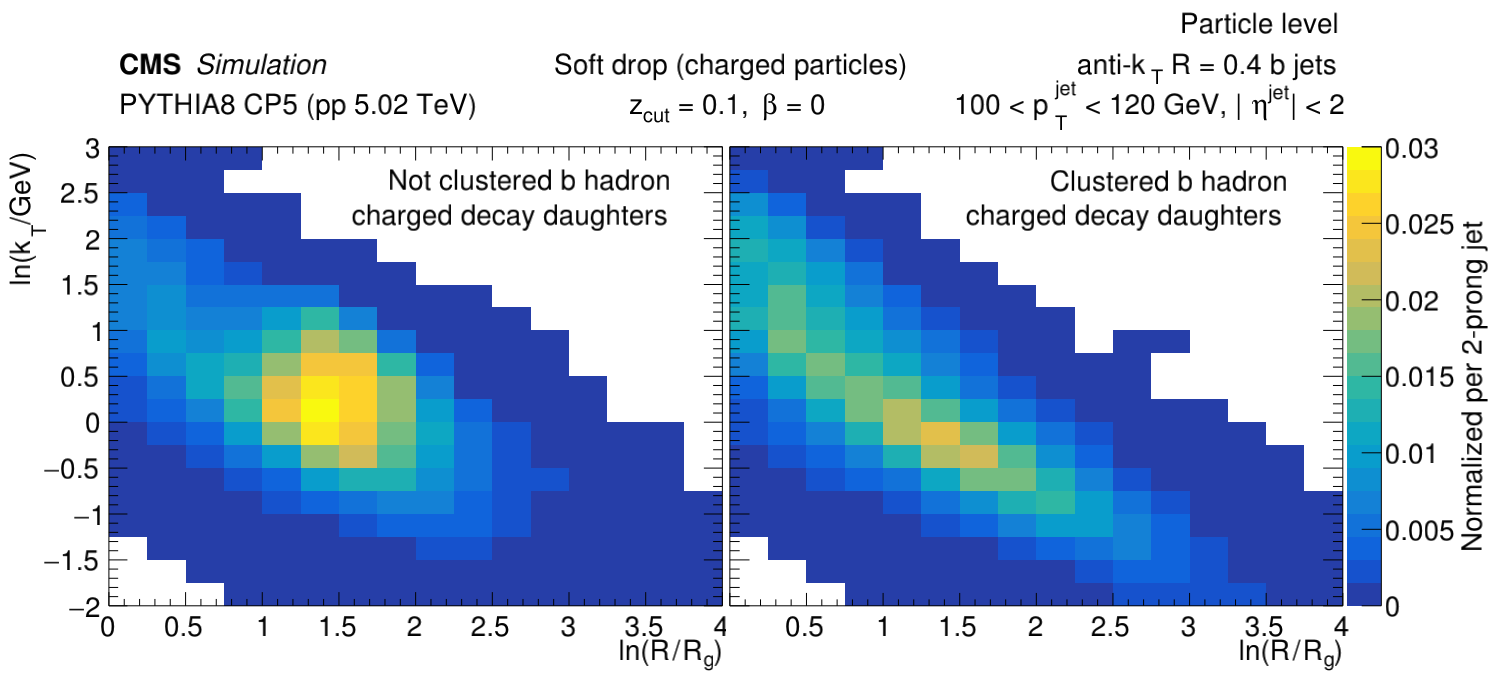
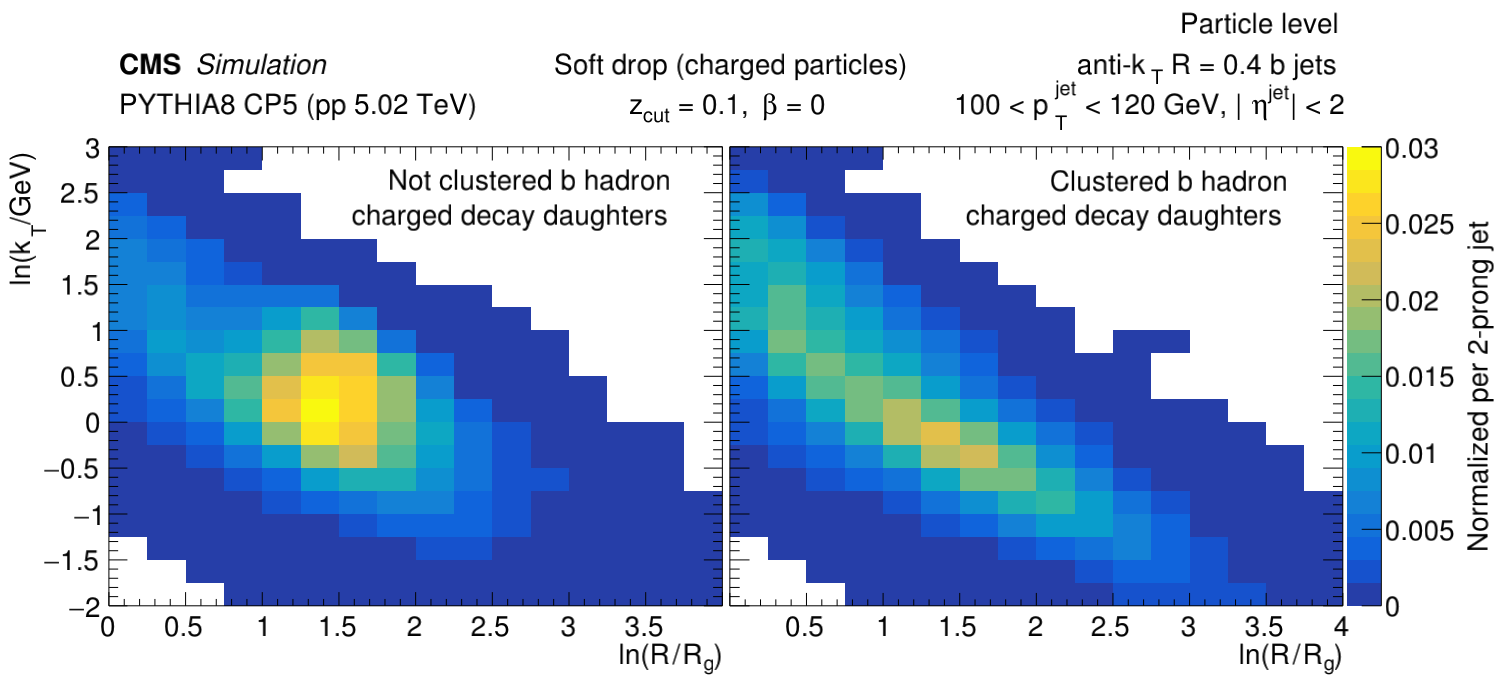
remove label from left plot and add some offset

Changed region(s): [[0.9519, 0.3107, 1.0, 0.8077], [0.4299, 0.9009, 0.4913, 1.0], [0.8291, 0.932, 0.8905, 1.0]]

diff --git a/myMacros/C106X/draw_substructure_v2.C b/myMacros/C106X/draw_substructure_v2.C
@@ -41,9 +41,9 @@ void draw_substructure_v2(TString observable="rg")
     double zmax = 0.03;
     double ymin = -2.;
     double ymax = 3.;
-    double xoffset = 1.2;
+    double xoffset = 1.3;
     double yoffset = 1.5;
-    double zoffset = 1.6;
+    double zoffset = 1.7;
 
     TString fin_noAggr_name = "./histos/bjet_noAggr_withPNET_substructure.root"; 
     std::cout << "fin_noAggr: " << fin_noAggr_name << std::endl;
@@ -56,6 +56,7 @@ void draw_substructure_v2(TString observable="rg")
     h_noAggr->GetXaxis()->SetTitleOffset(xoffset);
     h_noAggr->GetYaxis()->SetTitle("ln(k_{T}/GeV)");
     h_noAggr->GetYaxis()->SetTitleOffset(yoffset);
+    h_noAggr->GetXaxis()->ChangeLabel(9,-1,-1,-1,-1,-1," ");
 
 
     TString fin_aggr_name = "./histos/bjet_aggrTMVA_newJP_substructure.root"; 
